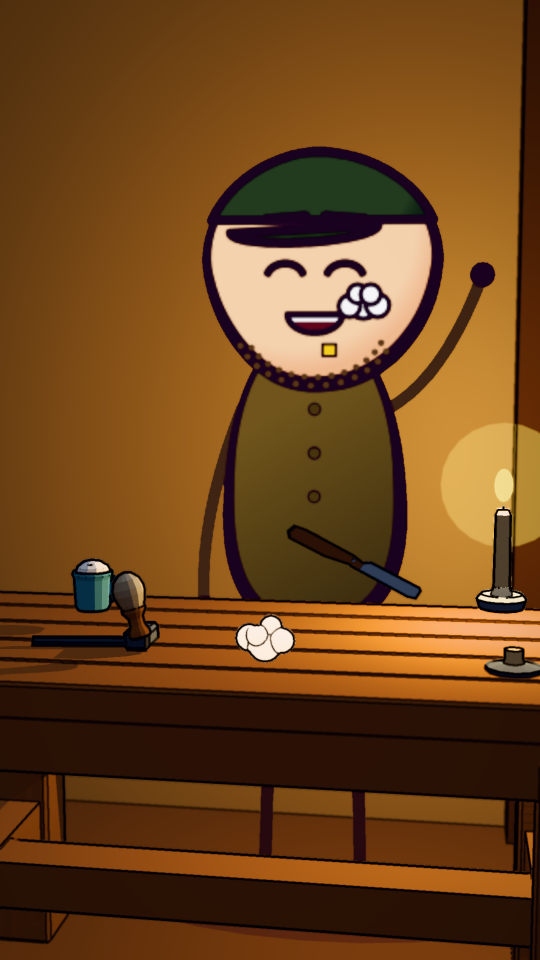
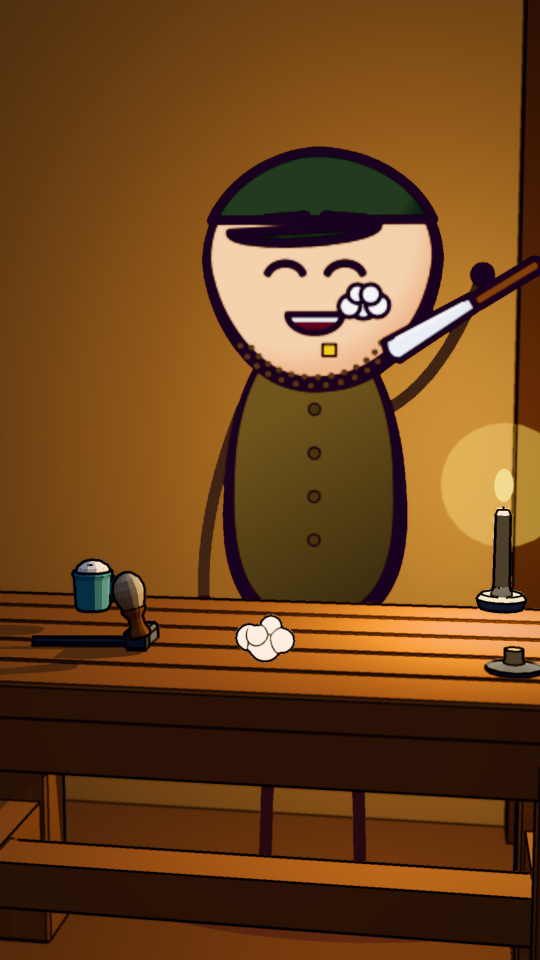
coin-ridges: look stills v2: coin bust faces (Codex face marks hidden), razor in hand, attached periwig, Tower river + warm light
Claude-Session: https://claude.ai/code/session_0143MgsXAz7e2UBWqZ8H3u5Y

Changed region(s): [[0.7111, 0.25, 1.0, 0.375], [0.5333, 0.5312, 0.8, 0.625]]

diff --git a/videos/coin-ridges/remotion/src/Looks.tsx b/videos/coin-ridges/remotion/src/Looks.tsx
@@ -33,6 +33,7 @@ const paint = (o: THREE.Object3D, cols: Record<string, string>) => o.traverse(x 
   const m = x as THREE.Mesh; if (!m.isMesh) return;
   (Array.isArray(m.material) ? m.material : [m.material]).forEach(mt => { const c = cols[mt.name]; if (c) (mt as THREE.MeshLambertMaterial).color.set(c); });
 });
+const paint2 = (o: THREE.Object3D, cols: Record<string, string>) => { paint(o, cols); return o; };
 const SILVER = {silver: '#eef2f8', coin_edge: '#dfe5ee', coin_face: '#e8edf4'};
 
 // ---------- cast (2D cards) ----------
@@ -45,14 +46,54 @@ const WORKER: Outfit[] = [{jacket: '#e8dcc0', pants: '#4a3a2a', boots: '#2a1d16'
 const HX = 300, HY = 309;
 const stubble = (g: CanvasRenderingContext2D) => { g.fillStyle = '#5a4636'; for (let i = 0; i < 26; i++) { const a = Math.PI * (.12 + .76 * i / 25); g.beginPath(); g.arc(HX + 92 * Math.cos(a) * (i % 2 ? .9 : .8), HY + 30 + 72 * Math.sin(a) * (i % 2 ? .9 : .78), 3.5, 0, 7); g.fill(); } };
 const goldTooth = (g: CanvasRenderingContext2D) => { g.fillStyle = '#f2c23a'; g.strokeStyle = INK; g.lineWidth = 3; g.fillRect(HX + 8, HY + 52, 14, 12); g.strokeRect(HX + 8, HY + 52, 14, 12); };
-/** Newton's full-bottomed periwig: grey curls framing the face down to the shoulders (drawn behind and over the head) */
+/** Newton's full-bottomed periwig: one cloud of curls hugging the top of the head and falling to the shoulders, drawn
+ *  BEHIND the head (outlines first, fills second, so it reads as one mass), then a fringe of curls overlapping the crown. */
+const WIG_PTS: [number, number][] = [];
+for (let i = 0; i <= 10; i++) { const a = Math.PI * (1 + i / 10); WIG_PTS.push([HX + 126 * Math.cos(a), HY + 4 + 120 * Math.sin(a)]); }
+for (const s of [-1, 1]) for (let i = 0; i < 4; i++) WIG_PTS.push([HX + s * (128 + 6 * (i % 2)), HY + 40 + i * 44]);
 const wigBack = (g: CanvasRenderingContext2D) => {
-  g.fillStyle = '#d9d3c6'; g.strokeStyle = INK; g.lineWidth = 9;
-  for (const s of [-1, 1]) for (let i = 0; i < 6; i++) { g.beginPath(); g.arc(HX + s * (112 + 8 * (i % 2)), HY - 40 + i * 42, 40, 0, 7); g.fill(); g.stroke(); }
+  g.strokeStyle = INK; g.lineWidth = 18; WIG_PTS.forEach(([x, y]) => { g.beginPath(); g.arc(x, y, 40, 0, 7); g.stroke(); });
+  g.fillStyle = '#ddd7ca'; WIG_PTS.forEach(([x, y]) => { g.beginPath(); g.arc(x, y, 40, 0, 7); g.fill(); });
+  g.strokeStyle = '#b9b2a4'; g.lineWidth = 5; WIG_PTS.forEach(([x, y], i) => { g.beginPath(); g.arc(x, y, 20, i * .7, i * .7 + 3.2); g.stroke(); });
 };
 const wigTop = (g: CanvasRenderingContext2D) => {
-  g.fillStyle = '#ece7dc'; g.strokeStyle = INK; g.lineWidth = 9;
-  for (let i = 0; i < 5; i++) { g.beginPath(); g.arc(HX - 100 + i * 50, HY - 96 - 14 * Math.sin(Math.PI * i / 4), 40, Math.PI, 0); g.fill(); g.stroke(); }
+  for (let i = 0; i < 7; i++) { const a = Math.PI * (1.12 + .76 * i / 6), x = HX + 104 * Math.cos(a), y = HY - 8 + 104 * Math.sin(a);
+    g.fillStyle = '#ece7dc'; g.strokeStyle = INK; g.lineWidth = 8; g.beginPath(); g.arc(x, y, 30, 0, 7); g.fill(); g.stroke();
+    g.strokeStyle = '#c9c2b4'; g.lineWidth = 4; g.beginPath(); g.arc(x, y, 14, i, i + 3); g.stroke(); }
+};
+/** straight razor held in the raised right hand (bodyFront wave = 1 puts the hand at ~(471, 313) for an adult) */
+const razorInHand = (g: CanvasRenderingContext2D) => {
+  g.save(); g.translate(471, 313); g.rotate(-.55); g.lineJoin = 'round';
+  g.fillStyle = '#7a4a2a'; g.strokeStyle = INK; g.lineWidth = 7; g.beginPath(); g.roundRect(-10, -6, 78, 14, 6); g.fill(); g.stroke();
+  g.fillStyle = '#e6ecf2'; g.beginPath(); g.moveTo(-10, -8); g.lineTo(-108, -14); g.quadraticCurveTo(-118, 4, -104, 12); g.lineTo(-10, 8); g.closePath(); g.fill(); g.stroke();
+  g.strokeStyle = '#ffffff'; g.lineWidth = 4; g.beginPath(); g.moveTo(-20, -4); g.lineTo(-96, -9); g.stroke(); g.restore();
+};
+/** coin face decal: a crowned (or plain) profile head + bead border + a ring of lettering dots, painted on a lit disc that
+ *  covers the asset's abstract face marks. Placed on both faces (+-Z) just inside the rim. */
+const coinFace = (coin: THREE.Object3D, r: number, crown: boolean, base = '#e8edf4') => {
+  const cv = document.createElement('canvas'); cv.width = cv.height = 512; const g = cv.getContext('2d')!;
+  g.fillStyle = base; g.beginPath(); g.arc(256, 256, 256, 0, 7); g.fill();
+  g.strokeStyle = '#8f98a6'; g.lineWidth = 10; g.beginPath(); g.arc(256, 256, 236, 0, 7); g.stroke();
+  g.fillStyle = '#8f98a6'; for (let i = 0; i < 30; i++) { const a = Math.PI * (.62 + 1.76 * i / 29); g.fillRect(256 + 200 * Math.cos(a) - 7, 256 + 200 * Math.sin(a) - 9, 14, 18); }
+  // classic coin bust facing left: shoulders cut flat, neck, chin, lips, nose, brow, then hair over the back of the head
+  g.fillStyle = '#b4bcc9'; g.strokeStyle = '#3f4652'; g.lineWidth = 11; g.lineJoin = 'round'; g.lineCap = 'round';
+  g.beginPath(); g.moveTo(170, 372); g.quadraticCurveTo(200, 330, 250, 322); g.lineTo(248, 296);
+  g.quadraticCurveTo(222, 292, 214, 270); g.lineTo(204, 262); g.lineTo(212, 250); g.lineTo(200, 240); g.lineTo(210, 230);
+  g.lineTo(196, 214); g.quadraticCurveTo(204, 196, 214, 186); g.quadraticCurveTo(224, 148, 276, 144);
+  g.quadraticCurveTo(330, 146, 336, 210); g.quadraticCurveTo(338, 270, 300, 300); g.lineTo(304, 322);
+  g.quadraticCurveTo(350, 330, 362, 372); g.closePath(); g.fill(); g.stroke();
+  g.fillStyle = '#8a93a2'; g.beginPath(); g.moveTo(232, 156); g.quadraticCurveTo(300, 120, 340, 196); g.quadraticCurveTo(346, 262, 312, 296);
+  g.quadraticCurveTo(290, 250, 300, 214); g.quadraticCurveTo(270, 190, 232, 156); g.fill(); g.stroke();
+  g.lineWidth = 6; [[316, 214], [326, 246], [312, 272]].forEach(([x, y]) => { g.beginPath(); g.arc(x, y, 12, 0, 5); g.stroke(); });
+  g.fillStyle = '#3f4652'; g.beginPath(); g.arc(232, 210, 6, 0, 7); g.fill();
+  g.lineWidth = 6; g.beginPath(); g.moveTo(222, 198); g.lineTo(244, 194); g.stroke();
+  if (crown) { g.fillStyle = '#c9b46a'; g.lineWidth = 9; g.beginPath(); g.moveTo(232, 158); g.lineTo(226, 104); g.lineTo(252, 128); g.lineTo(274, 92); g.lineTo(296, 128); g.lineTo(322, 104); g.lineTo(318, 160); g.closePath(); g.fill(); g.stroke(); }
+  coin.traverse(o => { if (/^(Stamped relief|Dot)/.test(o.name)) o.visible = false; });   // Codex's abstract face marks
+  const tex = new THREE.CanvasTexture(cv); tex.colorSpace = THREE.SRGBColorSpace;
+  const depth = new THREE.Box3().setFromObject(coin).getSize(new THREE.Vector3()).z;
+  for (const sd of [-1, 1]) { const d = new THREE.Mesh(new THREE.CircleGeometry(r, 48), new THREE.MeshLambertMaterial({map: tex}));
+    d.position.z = sd * (depth / 2 + .00004); if (sd < 0) d.rotation.y = Math.PI; coin.add(d); }
+  return coin;
 };
 const foamDots = (g: CanvasRenderingContext2D, x: number, y: number, r: number) => { g.fillStyle = '#ffffff'; g.strokeStyle = INK; g.lineWidth = 5;
   [[0, 0, 1], [-.9, .2, .7], [.9, .15, .75], [-.4, -.6, .6], [.45, -.55, .65]].forEach(([dx, dy, k]) => { g.beginPath(); g.arc(x + dx * r, y + dy * r, r * k, 0, 7); g.fill(); g.stroke(); }); };
@@ -97,7 +138,7 @@ const S: Build[] = [
   c => { c.near = .002; c.grade = 'day';
     c.scene.background = new THREE.Color('#cfe3f2');
     c.scene.add(put(clone(c.L, 'modern-table'), [0, 0, 0]));
-    const top = .75, q = clone(c.L, 'coin-modern-quarter'); paint(q, SILVER); q.position.set(0, top + .01215, 0); q.rotation.y = .9; c.scene.add(q);
+    const top = .75, q = coinFace(paint2(clone(c.L, 'coin-modern-quarter'), SILVER), .0098, false); q.position.set(0, top + .01215, 0); q.rotation.y = .9; c.scene.add(q);
     const back = plane(6, 3, '#f2dcb8'); back.position.set(0, 1.5, -1.4); c.scene.add(back);
     c.scene.add(new THREE.HemisphereLight('#ffffff', '#c8a87a', 1.2));
     const rim = new THREE.DirectionalLight('#ffffff', 2.2); rim.position.set(1.2, .8, -1); c.scene.add(rim);
@@ -110,12 +151,11 @@ const S: Build[] = [
     const foam = new THREE.Group(); [[0, 0, 0, .03], [.03, .01, .01, .022], [-.028, .008, -.01, .024], [.01, .03, 0, .02], [-.01, .02, .02, .018]].forEach(([x, y, z, r]) => {
       const s = new THREE.Mesh(new THREE.SphereGeometry(r, 20, 14), new THREE.MeshToonMaterial({color: '#ffffff', emissive: '#9a9a9a'})); s.position.set(x, y, z); s.castShadow = true; foam.add(s); });
     foam.position.set(.05, top + .015, -.35); c.scene.add(foam);
-    const raz = clone(c.L, 'straight-razor'); raz.position.set(.2, top + .16, -.33); raz.rotation.set(0, .4, -.5); c.scene.add(raz);
-    const brush = clone(c.L, 'shaving-brush'); brush.position.set(-.18, top, -.42); brush.rotation.z = .25; c.scene.add(brush);
+        const brush = clone(c.L, 'shaving-brush'); brush.position.set(-.18, top, -.42); brush.rotation.z = .25; c.scene.add(brush);
     c.scene.add(put(clone(c.L, 'shaving-mug'), [-.32, top, -.62]));
     c.scene.add(put(clone(c.L, 'candle'), [.45, top, -.75]));
     candleLight(c, [.45, top + .24, -.75], 3, 5);
-    const cl = person(CLIPPER, 1.72, {expr: 'grin', seed: 7, look: -.6, wave: 1}, {over: g => { stubble(g); goldTooth(g); foamDots(g, HX + 50, HY + 10, 16); }});
+    const cl = person(CLIPPER, 1.72, {expr: 'grin', seed: 7, look: -.6, wave: 1}, {over: g => { stubble(g); goldTooth(g); foamDots(g, HX + 50, HY + 10, 16); razorInHand(g); }});
     put(cl.mesh, [.05, 0, -1.05]); c.scene.add(cl.mesh);
     c.dof = 9; cam(c, [.35, 1.3, 1.55], [.02, 1.05, -.6], 44); },
   // 2: back room wide: crucible glowing on the brazier, silver ingot on the bench, Clipper grinning (pic 9-10)
@@ -141,23 +181,29 @@ const S: Build[] = [
   // 4: Tower of London with the Mint, morning, smoke from a chimney (pic 19)
   c => { c.grade = 'day'; skyDome(c.scene, 'day'); c.scene.fog = new THREE.Fog('#b8d0ec', 200, 900);
     c.scene.add(put(clone(c.L, 'tower-mint-exterior'), [0, 0, 0]));
-    const g = plane(800, 800, '#7f9a5a'); g.rotation.x = -Math.PI / 2; c.scene.add(g);
-    const river = plane(800, 60, '#4f7fa8'); river.rotation.x = -Math.PI / 2; river.position.set(0, .05, 70); c.scene.add(river);
+    const g = plane(800, 400, '#7f9a5a'); g.rotation.x = -Math.PI / 2; g.position.z = -175; c.scene.add(g);
+    const river = plane(800, 120, '#4f86b8'); river.rotation.x = -Math.PI / 2; river.position.set(0, -1.6, 100); c.scene.add(river);
     c.scene.add(new THREE.HemisphereLight('#cfe0ff', '#7a6650', 1.3));
-    const sun = new THREE.DirectionalLight('#fff0d8', 2.6); sun.position.set(-60, 80, 50); sun.castShadow = true; sun.shadow.mapSize.set(2048, 2048);
+    const sun = new THREE.DirectionalLight('#ffd9a8', 3.0); sun.position.set(-90, 45, 70); sun.castShadow = true; sun.shadow.mapSize.set(2048, 2048);
     Object.assign(sun.shadow.camera, {left: -60, right: 60, top: 60, bottom: -60, far: 300}); c.scene.add(sun);
-    [0, 1, 2, 3, 4].forEach(i => { const s = new THREE.Mesh(new THREE.SphereGeometry(1 + i * .45, 16, 12), lam('#d8d4cc')); s.position.set(-20 + i * 1.2, 22 + i * 2.2, -30 - i); s.castShadow = false; c.scene.add(s); });
-    c.dof = 0; cam(c, [-52, 7, 96], [0, 14, 0], 42); },
+    const quay = new THREE.Mesh(new THREE.BoxGeometry(800, 3, 4), lam('#a89a86')); quay.position.set(0, -.6, 40); quay.castShadow = quay.receiveShadow = true; c.scene.add(quay);
+    const bank = plane(800, 14, '#9a8a6a'); bank.rotation.x = -Math.PI / 2; bank.position.set(0, .03, 32); c.scene.add(bank);
+    [[-70, 10], [-58, 22], [44, 14], [60, 6], [72, 20], [-40, -50], [50, -48]].forEach(([x, z], i) => { const t = new THREE.Group();
+      const tr = new THREE.Mesh(new THREE.CylinderGeometry(.6, .8, 4, 8), lam('#5a3b2a')); tr.position.y = 2;
+      const cr = new THREE.Mesh(new THREE.SphereGeometry(4 + (i % 3), 14, 10), lam(['#5d7a3a', '#6b8a40', '#4f6e34'][i % 3])); cr.position.y = 7 + (i % 3);
+      [tr, cr].forEach(m => { m.castShadow = true; t.add(m); }); t.position.set(x, 0, z); c.scene.add(t); });
+    c.dof = 0; cam(c, [-62, 16, 176], [0, 12, 0], 40); },
   // 5: Newton questions a nervous witness by candlelight (pic 25)
   c => { backRoom(c); c.scene.background = new THREE.Color('#141016');
     const t = clone(c.L, 'interrogation-table'); c.scene.add(t);
     c.scene.add(put(clone(c.L, 'candle'), [.1, .75, 0])); candleLight(c, [.1, .99, 0], 7, 6);
-    const nw = person(NEWTON, 1.74, {expr: 'stern', seed: 12, look: .8}, {back: wigBack, over: wigTop}); put(nw.mesh, [-.15, 0, -.8]); c.scene.add(nw.mesh);
-    const wt = person(WITNESS, 1.7, {expr: 'nervous', seed: 23, look: -.8}); put(wt.mesh, [-.15, 0, .85]); c.scene.add(wt.mesh);
+    const nw = person(NEWTON, 1.74, {expr: 'stern', seed: 12, look: .8}, {back: wigBack, over: wigTop}); put(nw.mesh, [-.6, 0, -1.0]); c.scene.add(nw.mesh);
+    const wt = person(WITNESS, 1.7, {expr: 'nervous', seed: 23, look: -.8}); put(wt.mesh, [-.6, 0, 1.0]); c.scene.add(wt.mesh);
     c.dof = 9; cam(c, [4.4, 1.55, .05], [0, 1.2, 0], 44); },
   // 6: coin lineup ECU: hammered (lumpy, smooth edge), milled (crisp edge pattern), modern (reeds) + a clipped sliver
   c => { c.near = .002; backRoom(c); const top = bench(c);
     [['coin-hammered', -.045], ['coin-milled', 0], ['coin-modern-quarter', .045]].forEach(([id, x]) => { const k = clone(c.L, id as Id); paint(k, SILVER);
+      coinFace(k, id === 'coin-hammered' ? .0128 : id === 'coin-milled' ? .0165 : .0098, id !== 'coin-modern-quarter');
       const r = new THREE.Box3().setFromObject(k).getSize(new THREE.Vector3()).y / 2; k.position.set(x as number, top + r, -.35); k.rotation.y = .5; c.scene.add(k);
       const sl = k.getObjectByName('sliver') ?? k.getObjectByName('bite'); if (sl) sl.position.y -= .004; });
     candleLight(c, [-.12, top + .12, -.2], 1.2, 2);
